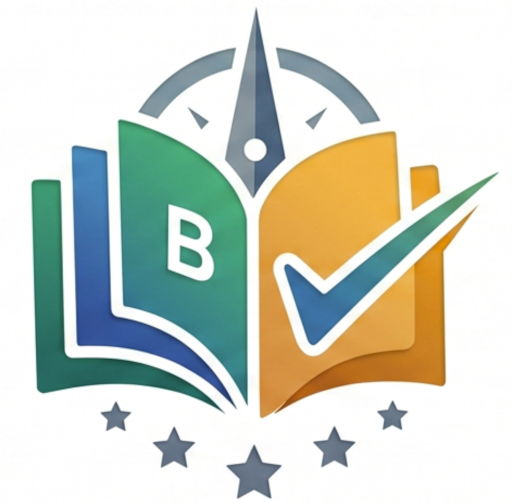
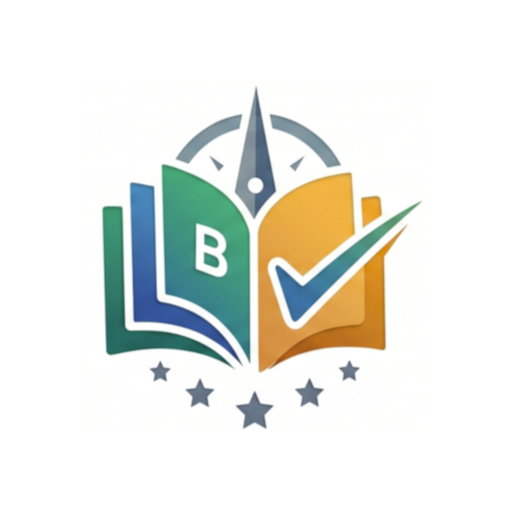
fix(cover): resolve NameError for cover_container and AttributeError in database call

diff --git a/book.py b/book.py
@@ -118,7 +118,7 @@ def detailseite(b_id: int):
                 aktueller_client = ui.context.client
                 search_dialog.close()
                 ui.notify(t('book_notify_saving_cover'), type='info')
-                erfolg = await asyncio.to_thread(database.lade_and_speichere_cover, book_id, url)
+                erfolg = await asyncio.to_thread(database.lade_und_speichere_cover, book_id, url)
                 if erfolg:
                     ui.notify(t('book_notify_cover_updated'), type='positive')
                     await asyncio.sleep(0.2)
@@ -151,6 +151,7 @@ def detailseite(b_id: int):
 
         with ui.dialog() as upload_dialog, ui.card().classes('p-6 w-96 flex flex-col gap-4').style(style_dialog_card):
             ui.label(t('book_upload_change_cover')).classes('text-lg font-bold text-slate-700 dark:text-slate-100')
+            cover_container = ui.element('div')
             ui.upload(label=t('book_select_image_label'), auto_upload=True, on_upload=lambda e: cover_verarbeiten(e, upload_dialog, cover_container)).props(f'accept=image/* max-files=1 {dialog_prop}').classes('w-full')
             ui.button(t('cancel'), on_click=upload_dialog.close).classes('bg-slate-400 dark:bg-slate-600 text-white w-full')
 